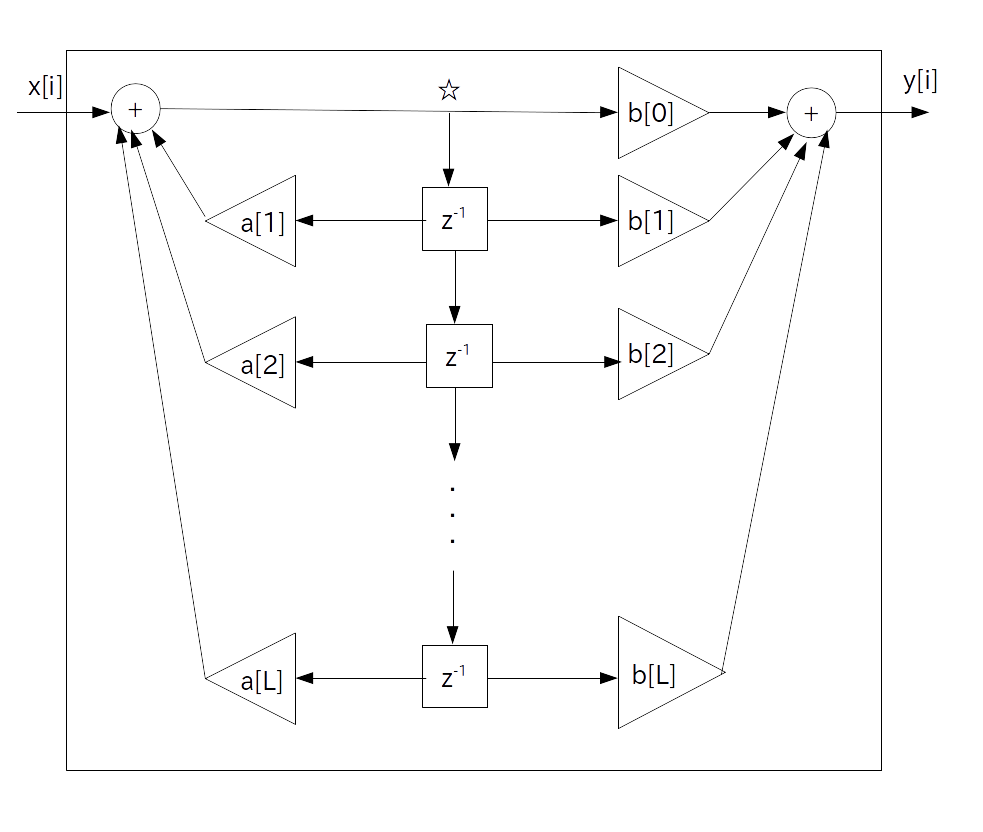
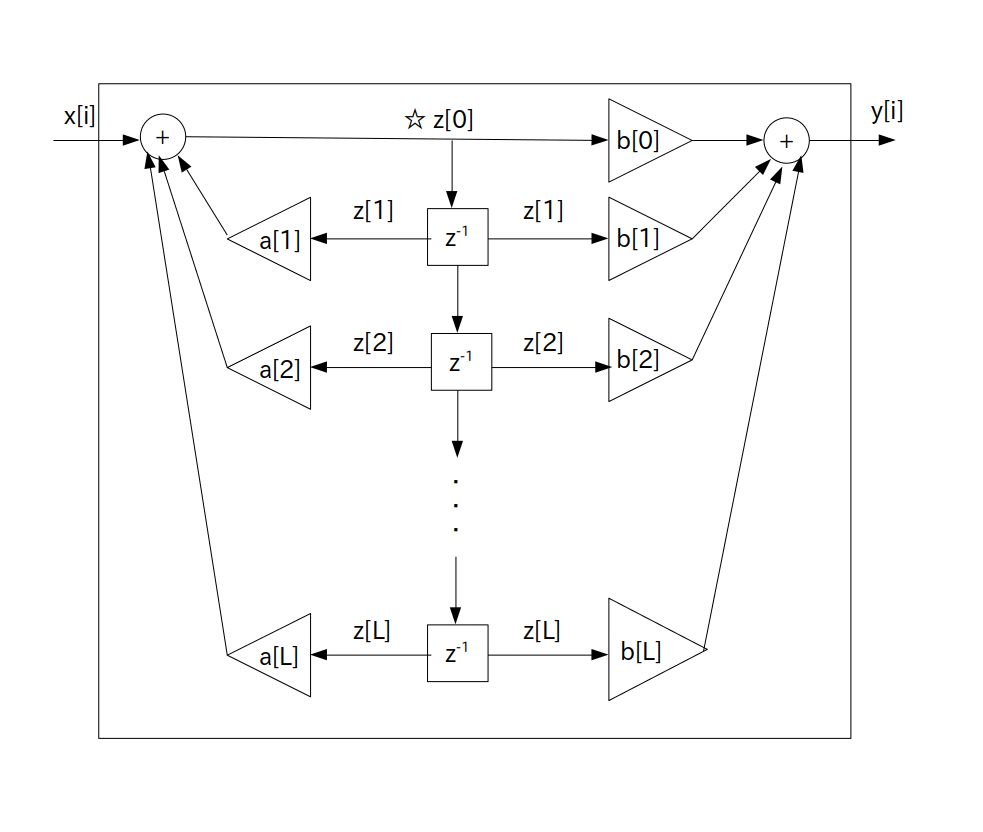
d-filter更新

diff --git a/docs/activity/d-filter/text03/practice.html b/docs/activity/d-filter/text03/practice.html
@@ -30,19 +30,29 @@
 </p>
 <div class="olradio"> 
 <p>
-<span class="olradio"><input type="radio" name="p1"></span> <a href="./src/D-FILTER-3-1.cpp">テンプレートソース</a>(D-FILTER-3-1.cpp)をダウンロードします。 
+<span class="olradio"><input type="radio" name="p1"></span> フォルダ「DF_3_1」を新規作成し、その中に移動します 
+<br>
+<span class="olradio"><input type="radio" name="p1"></span> フォルダ「DF_3_1」の中に main.cpp を作成します
+<br>
+<span class="olradio"><input type="radio" name="p1"></span> main.cpp を開き、ファイルの中身を<a href="./src/DF_3_1.txt">テンプレート</a>の内容に置き換えて下さい。
 <br>
 <span class="olradio"><input type="radio" name="p1"></span> <a href="../../../lib/sound/trumpet_22k_mono.wav">サンプル音声</a>(trumpet_22k_mono.wav)をソースと同じフォルダにダウンロードします。
 <br>
-<span class="olradio"><input type="radio" name="p1"></span> テンプレートファイルの記述に従って ? の部分を上から穴埋めしてプログラムを完成させて下さい。なおサンプリング周波数は $f_s = 22050$ [Hz]、カットオフ周波数は $f_c$ = 1000 [Hz] とします。
+<span class="olradio"><input type="radio" name="p1"></span> テンプレートファイルの記述に従って ? の部分を上から穴埋めしてプログラムを完成させて下さい。なおサンプリング周波数は $f_s = 22050$ [Hz]、フィルタ長は $\textrm{L} = 1$ 、カットオフ周波数は $f_c$ = 1000 [Hz] とします。
 <br>
-<span class="olradio"><input type="radio" name="p1"></span> コンパイルして実行すると「D-FILTER-3-1.wav 」という Wave形式音声ファイルが出来ます。
+<span class="olradio"><input type="radio" name="p1"></span> コンパイルして実行すると「 DF_3_1-6.wav 」という Wave形式音声ファイルが出来ます。
 <br>
-<span class="olradio"><input type="radio" name="p1"></span> 元の音声(trumpet_22k_mono.wav)を演奏し、スペクトログラム画像を確認してください。
+<span class="olradio"><input type="radio" name="p1"></span> 元の音声(trumpet_22k_mono.wav)を演奏し、スペクトログラム画像を作成し(名前は任意)、スペクトログラムを確認して下さい。
+</p>
+<p>
+(参考) スペクトログラム画像の作成方法: $ sox 入力.wav -n spectrogram -z (デシベル) -o 出力.png 
 <br>
-<span class="olradio"><input type="radio" name="p1"></span> フィルタリング後の音声(D-FILTER-3-1.wav)を演奏し、スペクトログラム画像を見て高周波成分が減衰していることを確認して下さい。
+デシベルは適宜調整(今回の例では 60 位が目安)
+</p>
+<p>
+<span class="olradio"><input type="radio" name="p1"></span> フィルタリング後の音声(DF_3_1-6.wav)を演奏し、スペクトログラム画像を作成し(名前は任意)、高周波成分が減衰していることを確認して下さい。 
 <br>
-<span class="olradio"><input type="radio" name="p1"></span>  指定場所に「ソースコード」「元の音声のスペクトログラム画像」「フィルタリング後の音声のスペクトログラム画像」を貼りつけて下さい。 
+<span class="olradio"><input type="radio" name="p1"></span>  指定場所に「main.cpp」「元の音声のスペクトログラム画像」「フィルタリング後の音声のスペクトログラム画像」を貼りつけて下さい。 
 </p>
 </div>
 
@@ -52,23 +62,25 @@
 </p>
 <div class="olradio"> 
 <p>
-<span class="olradio"><input type="radio" name="p2"></span> 表計算ソフトを起動します。
+<span class="olradio"><input type="radio" name="p2"></span> カットオフ周波数は $f_c = 1000$ [Hz] とします。
 <br>
-<span class="olradio"><input type="radio" name="p2"></span> 今回考えるローパスフィルタのカットオフ周波数は 1000 [Hz] とします。 一番上の最初の列のセルに「fc」と書き、その隣のセルに「1000」と入力して下さい。
+<span class="olradio"><input type="radio" name="p2"></span> 表計算ソフトを起動し、1行目の最初の列に「fc」と書き、その隣の列に「1000」と入力して下さい。
 <br>
-<span class="olradio"><input type="radio" name="p2"></span> 更にその隣の列のセルに「wc」と書き、その隣のセルに計算式を入力して下さい。
+<span class="olradio"><input type="radio" name="p2"></span> 更にその隣の列に「wc」と書き、その隣の列に計算式を入力してカットオフ角周波数を求めます。
 <br>
-<span class="olradio"><input type="radio" name="p2"></span> 2行目の最初の列のセルに「t」と書き、その下のセルから各 $t$ の値を 0 [秒] から 0.01 [秒] まで 0.0001 [秒] 間隔で オートフィルを使って入力します。
+<span class="olradio"><input type="radio" name="p2"></span> 2行目の最初の列に「t」、次の列に「h(t)」と入力します。 
 <br>
-<span class="olradio"><input type="radio" name="p2"></span> 「t」と書いた右隣のセルに「h(t)」と書き、その下のセルから各 $t$ における $h(t)$ の値をオートフィルを使って入力します。
+<span class="olradio"><input type="radio" name="p2"></span> 3行目の最初の列から各 $t$ の値を 0 [秒] から 0.01 [秒] まで 0.0001 [秒] 間隔で オートフィルを使って入力します。
 <br>
-<span class="olradio"><input type="radio" name="p2"></span> 「t」と「h(t)」の列を範囲選択してからグラフを挿入します。グラフの種類は散布図、線あり、平滑化なしとします。 
+<span class="olradio"><input type="radio" name="p2"></span> 次の列に各 $h(t)$ の値をオートフィルを使って入力します。
 <br>
-<span class="olradio"><input type="radio" name="p2"></span> シートを保存します。ファイル名は「D-FILTER-3-2」として下さい(拡張子は表計算ソフトによる)。
+<span class="olradio"><input type="radio" name="p2"></span> グラフを挿入します。グラフの種類は散布図、点あり、線あり、平滑化なしとします。
 <br>
-<span class="olradio"><input type="radio" name="p2"></span> チーム内で答え合わせをして下さい。
+<span class="olradio"><input type="radio" name="p2"></span> 「名前を付けて保存」でシートを表計算形式で保存します。ファイル名は「DF_3_2」として下さい(拡張子は使用する表計算ソフトによる)。
 <br>
-<span class="olradio"><input type="radio" name="p2"></span> 各自が指定場所に「グラフ」を貼り付けて下さい。  
+<span class="olradio"><input type="radio" name="p2"></span> チーム内で答え合わせをして下さい。 
+<br>
+<span class="olradio"><input type="radio" name="p2"></span> 指定場所に「インパルス応答のグラフ」を貼り付けて下さい。  
 </p>
 </div>
 
@@ -78,28 +90,28 @@
 </p>
 <div class="olradio"> 
 <p>
-<span class="olradio"><input type="radio" name="p3"></span> <a href="./src/D-FILTER-3-3.cpp">テンプレートソース</a>(D-FILTER-3-3.cpp)をダウンロードします。
+<span class="olradio"><input type="radio" name="p3"></span> フォルダ「DF_3_3」を新規作成し、その中に移動します 
 <br>
-<span class="olradio"><input type="radio" name="p3"></span> テンプレートソースを開いて穴埋めをします。パラメータは サンプリング周波数 $f_s = 22050$ [Hz]、$f_c = 1000$ [Hz] として下さい。
+<span class="olradio"><input type="radio" name="p3"></span> フォルダ「DF_3_3」の中に main.cpp を作成します
 <br>
-<span class="olradio"><input type="radio" name="p3"></span> コンパイルして実行するとCSVファイル(D-FILTER-3-3.csv)が出力されます。
+<span class="olradio"><input type="radio" name="p3"></span> main.cpp を開き、ファイルの中身を<a href="./src/DF_3_3.txt">テンプレート</a>の内容に置き換えて下さい。
 <br>
-<span class="olradio"><input type="radio" name="p3"></span> D-FILTER-3-3.csv を表計算ソフトで開き、一行目に空行を挿入し、最初の列の先頭に i 、次の列の先頭に h[i] と入力します。
+<span class="olradio"><input type="radio" name="p3"></span> テンプレートソースを開いて穴埋めをします。各パラメータ値は演習 3-1 と同じです。
 <br>
-<span class="olradio"><input type="radio" name="p3"></span> グラフを挿入します。グラフの種類は散布図、点あり、線なしとします。
+<span class="olradio"><input type="radio" name="p3"></span> コンパイルして実行するとCSVファイル(DF_3_3-8.csv)が出力されます。
 <br>
-<span class="olradio"><input type="radio" name="p3"></span> 「名前を付けて保存」でシートを表計算形式で保存します。ファイル名は「D-FILTER-3-3」として下さい(拡張子は使用する表計算ソフトによる)。
+<span class="olradio"><input type="radio" name="p3"></span> CSV ファイルを表計算ソフトで開き、一行目に空行を挿入し、最初の列の先頭に「i」、次の列の先頭に「h[i]」と入力します。
 <br>
-<span class="olradio"><input type="radio" name="p3"></span> チーム内で答え合わせをし、結果のグラフが演習3-2で求めた RC アナログローパスフィルタのインパルス応答と同じ形になっている事を確認して下さい(※)。
-</p>
-<p>
-※ ゲイン調整のためサンプリングした後にサンプリング周期 $\tau$ [秒]を掛けているので値は一致しません
-</p>
-<p>
-<span class="olradio"><input type="radio" name="p3"></span> 各自が指定場所に「グラフ」を貼り付けて下さい。 
+<span class="olradio"><input type="radio" name="p3"></span> グラフを挿入します。グラフの種類は散布図、点あり、線あり、平滑化なしとします。
+<br>
+
+<span class="olradio"><input type="radio" name="p3"></span> 「名前を付けて保存」でシートを表計算形式で保存します。ファイル名は「DF_3_3」として下さい(拡張子は使用する表計算ソフトによる)。
+<br>
+<span class="olradio"><input type="radio" name="p3"></span> チーム内で答え合わせをして下さい。 
+<br>
+<span class="olradio"><input type="radio" name="p3"></span> 指定場所に「インパルス応答のグラフ」を貼り付けて下さい。 
 </p>
 </div>
-
 
 <br>
 <p>

diff --git a/docs/activity/d-filter/text03/page02.html b/docs/activity/d-filter/text03/page02.html
@@ -59,6 +59,40 @@ RC ローパスフィルタの(アナログ)伝達関数と周波数特性とイ
 & = \frac{ w_c }{ s + w_c } \\
 \end{align*}
 
+<p>
+(求め方)
+</p>
+
+<p>
+$V_{in}(t)$ を入力電圧(正弦波とする)のフェーザ表示、$I(t)$ を回路内を流れる電流のフェーザ表示とすると、
+</p>
+
+\[
+V_{in}(t) = \left \{ R + \frac{1}{j \cdot \textrm{C} \cdot w} \right \} \cdot I(t)
+\]
+
+<p>
+であるから、$V_{out}(t)$ をコンデンサの両端にかかる電圧のフェーザ表示とすると
+</p>
+
+\begin{align*}
+V_{out}(t) &= \frac{1}{j \cdot \textrm{C} \cdot w} \cdot I(t) \\
+&= \frac{ \frac{1}{j \cdot \textrm{C} \cdot w} }{ R + \frac{1}{j \cdot \textrm{C} \cdot w} } \cdot V_{in}(t)  \\
+&= \frac{ 1 }{ 1 + j \cdot RC \cdot w } \cdot V_{in}(t)  \\
+\end{align*}
+
+<p>
+よって $j\cdot w = s$ を代入してラプラス変換にすることで
+</p>
+
+\[
+\textrm{H}(s) = \frac{ V_{out}(t) }{ V_{in}(t) } = \frac{ 1 }{ 1 + RC\cdot s }
+\]
+
+<p>
+が求められる。
+</p>
+
 </div>
 
 <br>
@@ -76,6 +110,19 @@ RC ローパスフィルタの(アナログ)伝達関数と周波数特性とイ
 & = \frac{ w_c }{ \sqrt{w^2 + w_c^2 }}  \cdot \textrm{e}^{ -j\cdot \tan^{-1}(w/w_c) } \\
 & = \frac{ w_c }{ \sqrt{w^2 + w_c^2 }}  \cdot \textrm{e}^{ j\cdot \tan^{-1}(-w/w_c) } \\
 \end{align*}
+
+<p>
+よって振幅特性(ゲイン)と位相特性はそれぞれ
+</p>
+
+\[
+|\textrm{H}(w)| = \frac{ w_c }{ \sqrt{w^2 + w_c^2 }} 
+\]
+
+\[
+\angle \textrm{H}(w) = \tan^{-1}(-w/w_c)
+\]
+
 
 </div>
 
@@ -98,11 +145,11 @@ h(t)
 <p>
 あとはこの RC ローパスフィルタのインパルス応答を<a href="../../d-signal/text02/page01.html">サンプリング間隔</a> $\tau$ [秒] でサンプリングしてディジタルフィルタの<a href="../text01/page03.html">インパルス応答</a> $h[i]$ を求めます。
 <br>
-ただしそのままだと$\tau$の大小でゲインが変化してしまうので、ゲインを一定にするために $\tau$ をかけます。
+ただしそのままだと$\tau$の大小で振幅特性(ゲイン)が変化してしまうので、振幅特性を一定にするために $\tau$ をかけます。
 </p>
 
 <p>
-※ このページの一番下にあるIIRフィルタの周波数特性の導出式をみると分かりますが$\tau$がキャンセルされます
+※ このページの一番下にあるIIRフィルタの周波数特性の導出式をみると分かりますが $\tau$ は最終的にキャンセルされます
 </p>
 
 <div class="info">
@@ -120,9 +167,18 @@ h[i] = \tau \cdot h(\tau \cdot i ) = \tau \cdot w_c \cdot \textrm{e}^{-w_c \cdot
 
 <p>
 よって IIR ローパスフィルタの伝達関数は次の様になります。
+</p>
 
 <div class="info">
 <input type="checkbox"><b> 標準形 1次 IIR ローパスフィルタの伝達関数: </b>
+
+\begin{align*}
+\textrm{H}(z) = \frac{ \tau \cdot w_c }{ 1 - \textrm{e}^{-w_c \cdot \tau} \cdot z^{-1} } 
+\end{align*}
+
+<p>
+(求め方)
+</p>
 
 \begin{align*}
 \textrm{H}(z) &= \sum_{i=0}^\infty \{ h[i] \cdot z^{-i} \} \\
@@ -187,7 +243,7 @@ $|x|$ が十分小さい時、$\textrm{e}^{x}$ をマクローリン展開する
 </div>
 
 <p>
-よってカットオフ角周波数 $w_c$ [rad/秒] とサンプリング間隔 $\tau$ [秒]が充分に小さければ、標準形 1次 IIR ローパスフィルタの周波数特性は 1次 RC ローパスフィルタの周波数特性に近似されます。
+よってカットオフ角周波数 $w_c$ [rad/秒] があまり高くなく、かつサンプリング間隔 $\tau$ [秒]が充分に小さければ(つまりサンプリング周波数が充分に高ければ)、標準形 1次 IIR ローパスフィルタの周波数特性は 1次 RC ローパスフィルタの周波数特性に近似されることが分かります。
 </p>
 
 <br>

diff --git a/docs/activity/d-filter/text02/page01.html b/docs/activity/d-filter/text02/page01.html
@@ -21,9 +21,7 @@
 <h2><script>GetTitle()</script></h2>
 
 <p>
-FIR (Finite Impulse Response) フィルタは日本語では「有限インパルス応答フィルタ」と呼ばれています。
-<br>
-つまり、正整数 $\textrm{L}$ を有限の数とした時、<a href="../text01/page03.html">インパルス応答</a>が $h[0]$ から $h[\textrm{L}-1]$ まで値が入っていて、残りは全て $h[i]=0, (i=\textrm{L},\textrm{L}+1,\cdots)$ となるフィルタです。
+FIR (Finite Impulse Response) フィルタは、正整数 $\textrm{L}$ を有限の数とした時に<a href="../text01/page03.html">インパルス応答</a>が $h[0]$ から $h[\textrm{L}-1]$ まで値が入っているけど残りは全て $h[i]=0, (i=\textrm{L},\textrm{L}+1,\cdots)$ となるフィルタで、日本語では「有限インパルス応答フィルタ」と呼ばれています。
 </p>
 
 <p>

diff --git a/docs/activity/d-filter/index.html b/docs/activity/d-filter/index.html
@@ -19,7 +19,7 @@
 <h1><script>GetTitle()</script></h1>
 
 <p>
-最終更新日: 2021/10/4
+最終更新日: 2021/10/10
 </p>
 
 <div class="info">
